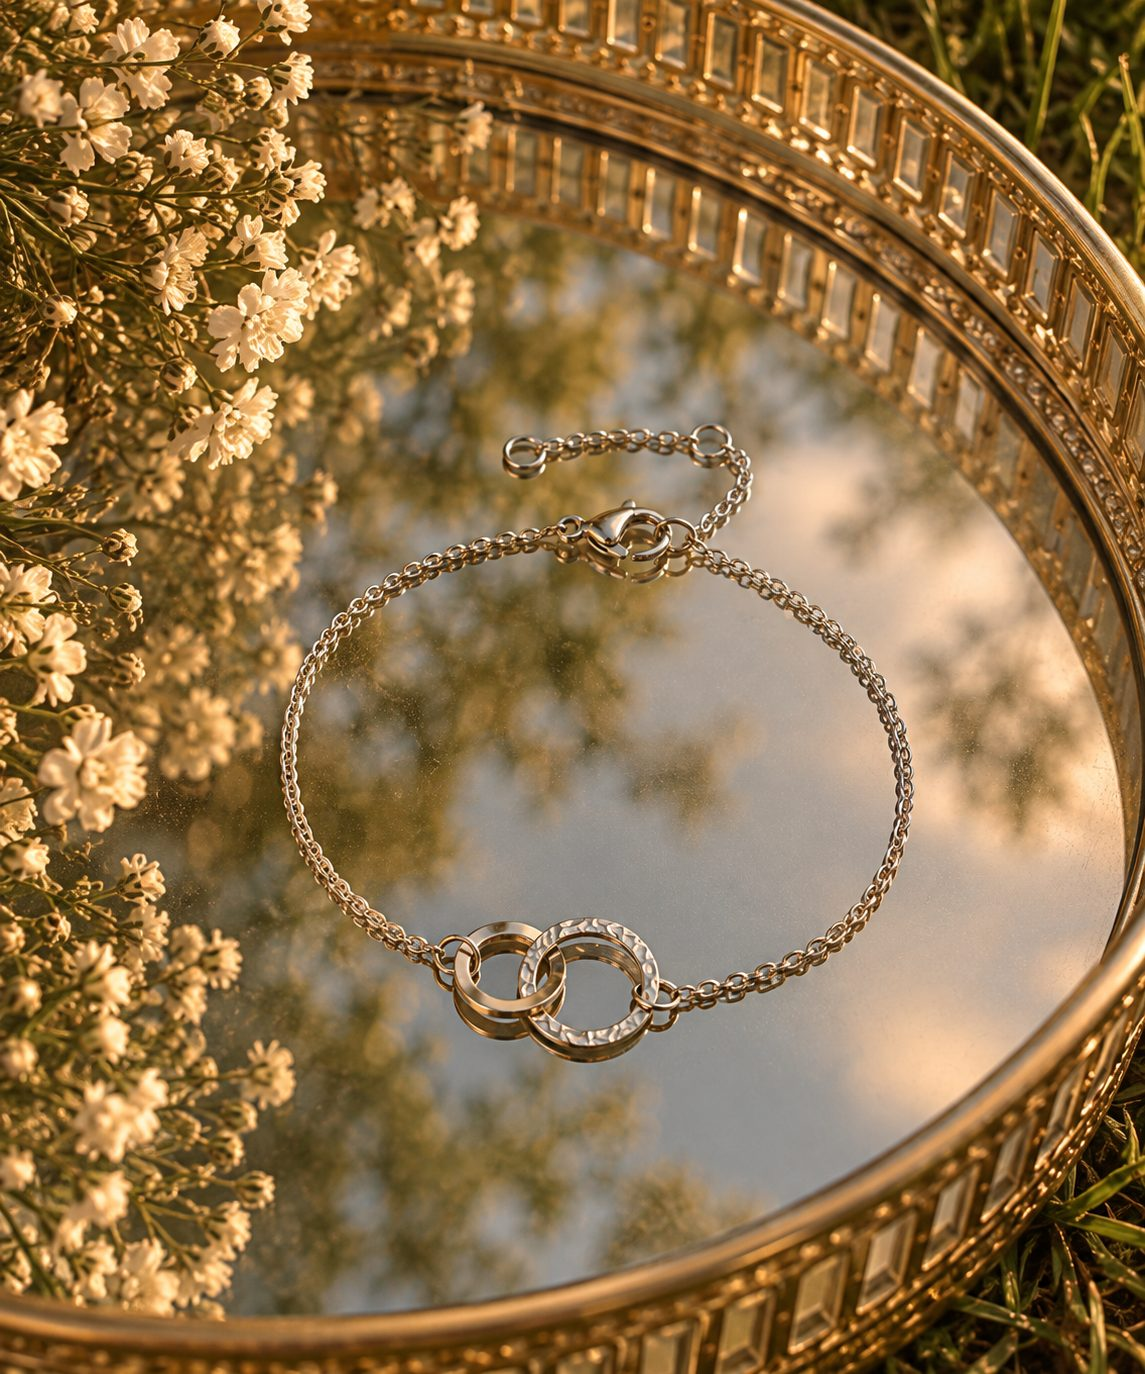
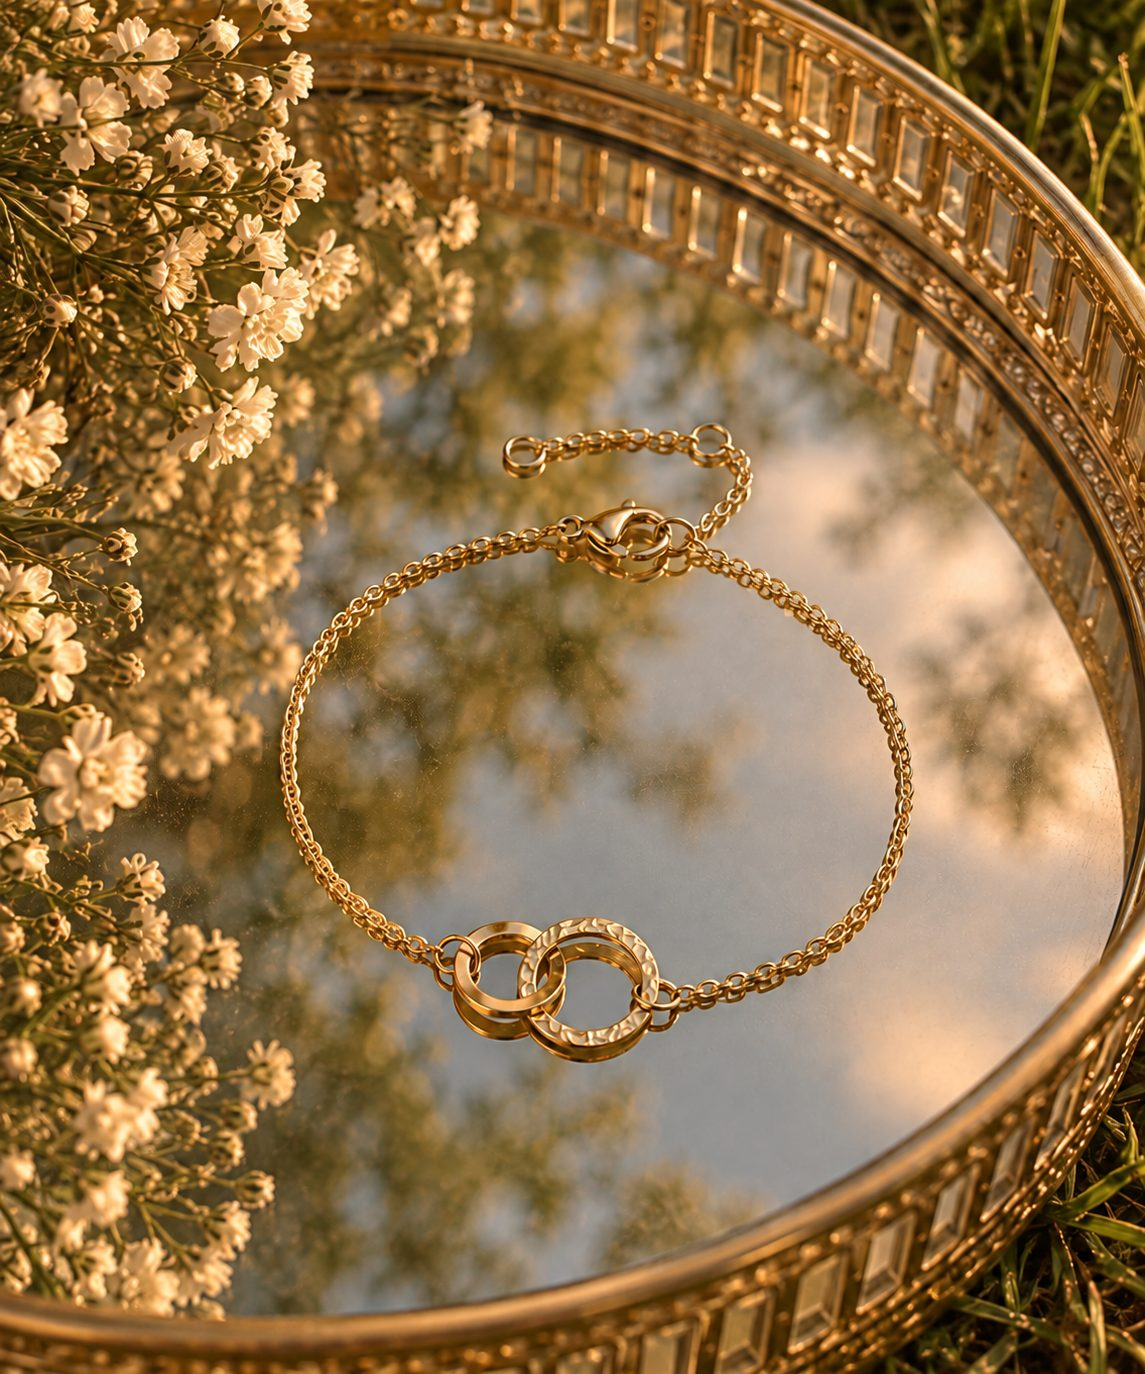
Pulsera Dos Almas: completa la galeria en plata con la foto 2a corregida
La foto 2a que faltaba ya llego correcta (los dos circulos, no el
brazalete grabado de antes), asi que la galeria en plata vuelve a
tener las 4 fotos completas. Tambien se actualizo la portada en oro.

diff --git a/deploy/productos.js b/deploy/productos.js
@@ -95,13 +95,12 @@ const PRODUCTOS = [
     destacado: false,
     // FOTOS PROVISIONALES, mismo esquema que Pulsera Mi Cielo: la 4/4a de
     // cada acabado es la portada y a la vez la última de la galería de
-    // dentro. OJO: "2a" (plata) no se usa: la foto de esa carpeta es un
-    // brazalete rígido grabado, no esta pulsera de los dos círculos —
-    // pendiente de que Adri suba la correcta.
+    // dentro. "2a" ya corregida (antes traía un brazalete grabado por
+    // error).
     fotoPortada: ['img/dos-almas-oro-4.jpg', 'img/dos-almas-plata-4.jpg'],
     fotos: {
       oro: ['img/dos-almas-oro-1.jpg', 'img/dos-almas-oro-2.jpg', 'img/dos-almas-oro-3.jpg', 'img/dos-almas-oro-4.jpg'],
-      plata: ['img/dos-almas-plata-1.jpg', 'img/dos-almas-plata-3.jpg', 'img/dos-almas-plata-4.jpg'],
+      plata: ['img/dos-almas-plata-1.jpg', 'img/dos-almas-plata-2.jpg', 'img/dos-almas-plata-3.jpg', 'img/dos-almas-plata-4.jpg'],
     },
   },
   {

diff --git a/productos.js b/productos.js
@@ -95,13 +95,12 @@ const PRODUCTOS = [
     destacado: false,
     // FOTOS PROVISIONALES, mismo esquema que Pulsera Mi Cielo: la 4/4a de
     // cada acabado es la portada y a la vez la última de la galería de
-    // dentro. OJO: "2a" (plata) no se usa: la foto de esa carpeta es un
-    // brazalete rígido grabado, no esta pulsera de los dos círculos —
-    // pendiente de que Adri suba la correcta.
+    // dentro. "2a" ya corregida (antes traía un brazalete grabado por
+    // error).
     fotoPortada: ['img/dos-almas-oro-4.jpg', 'img/dos-almas-plata-4.jpg'],
     fotos: {
       oro: ['img/dos-almas-oro-1.jpg', 'img/dos-almas-oro-2.jpg', 'img/dos-almas-oro-3.jpg', 'img/dos-almas-oro-4.jpg'],
-      plata: ['img/dos-almas-plata-1.jpg', 'img/dos-almas-plata-3.jpg', 'img/dos-almas-plata-4.jpg'],
+      plata: ['img/dos-almas-plata-1.jpg', 'img/dos-almas-plata-2.jpg', 'img/dos-almas-plata-3.jpg', 'img/dos-almas-plata-4.jpg'],
     },
   },
   {
